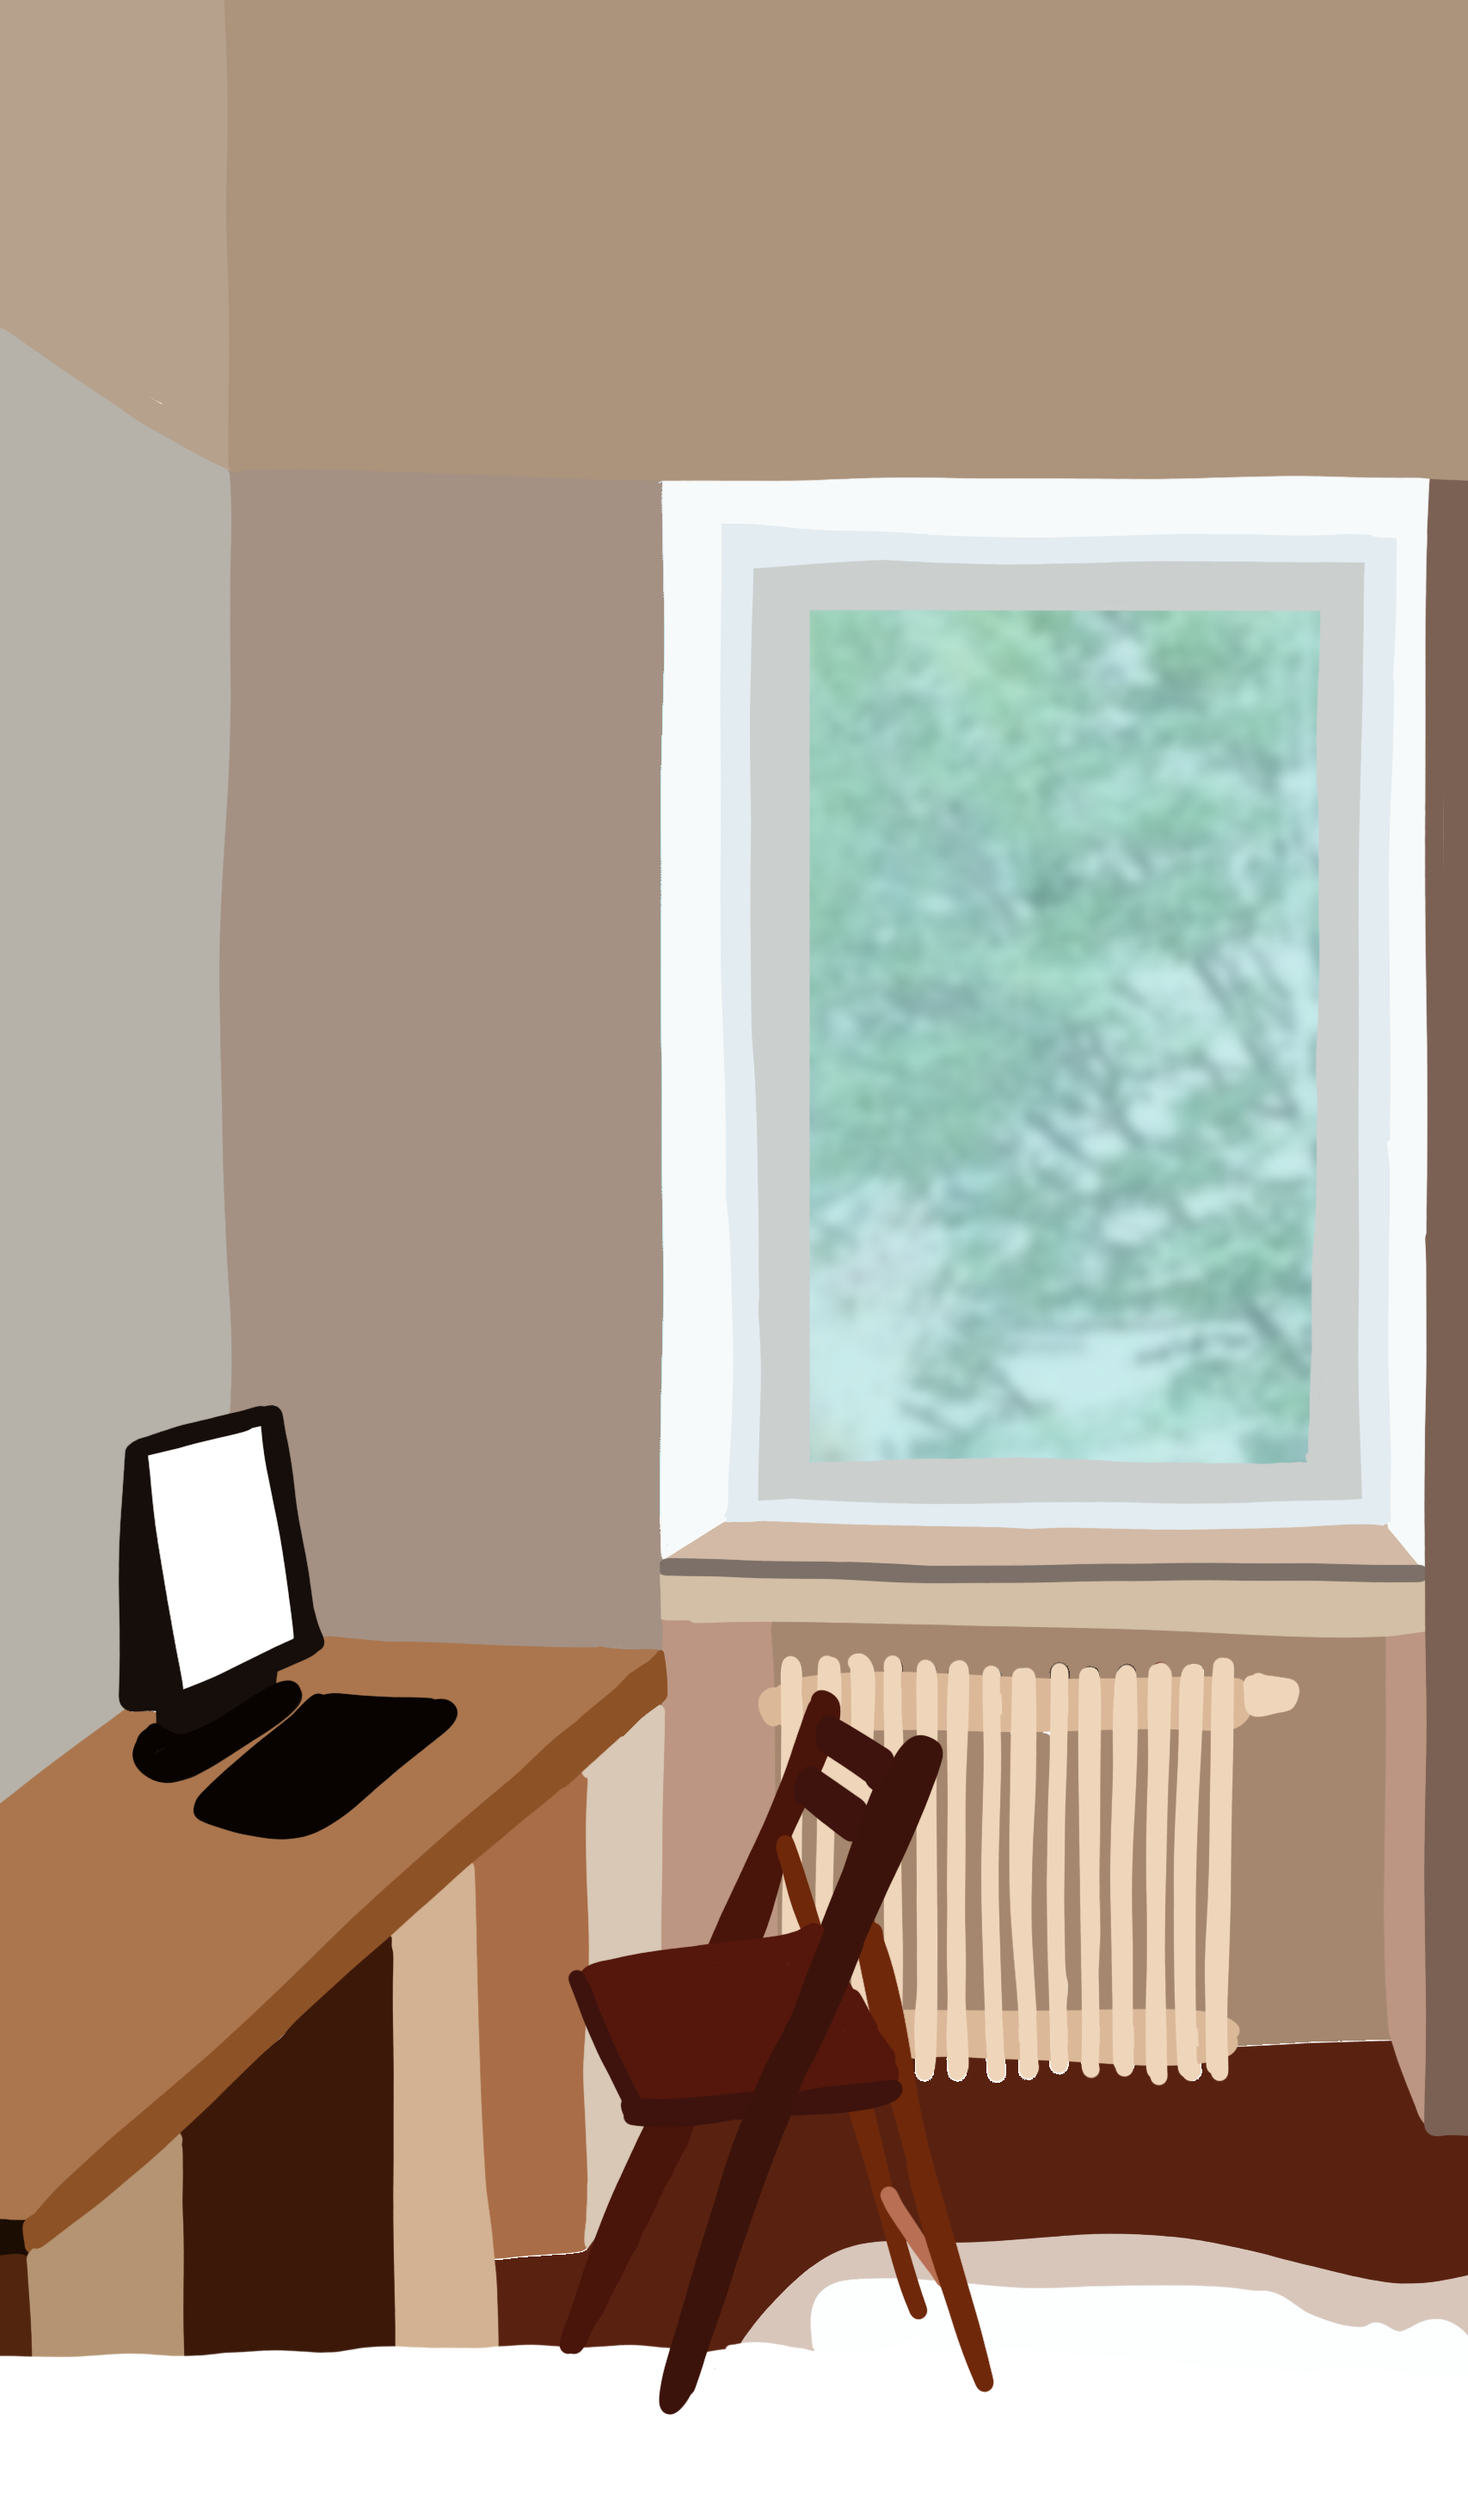
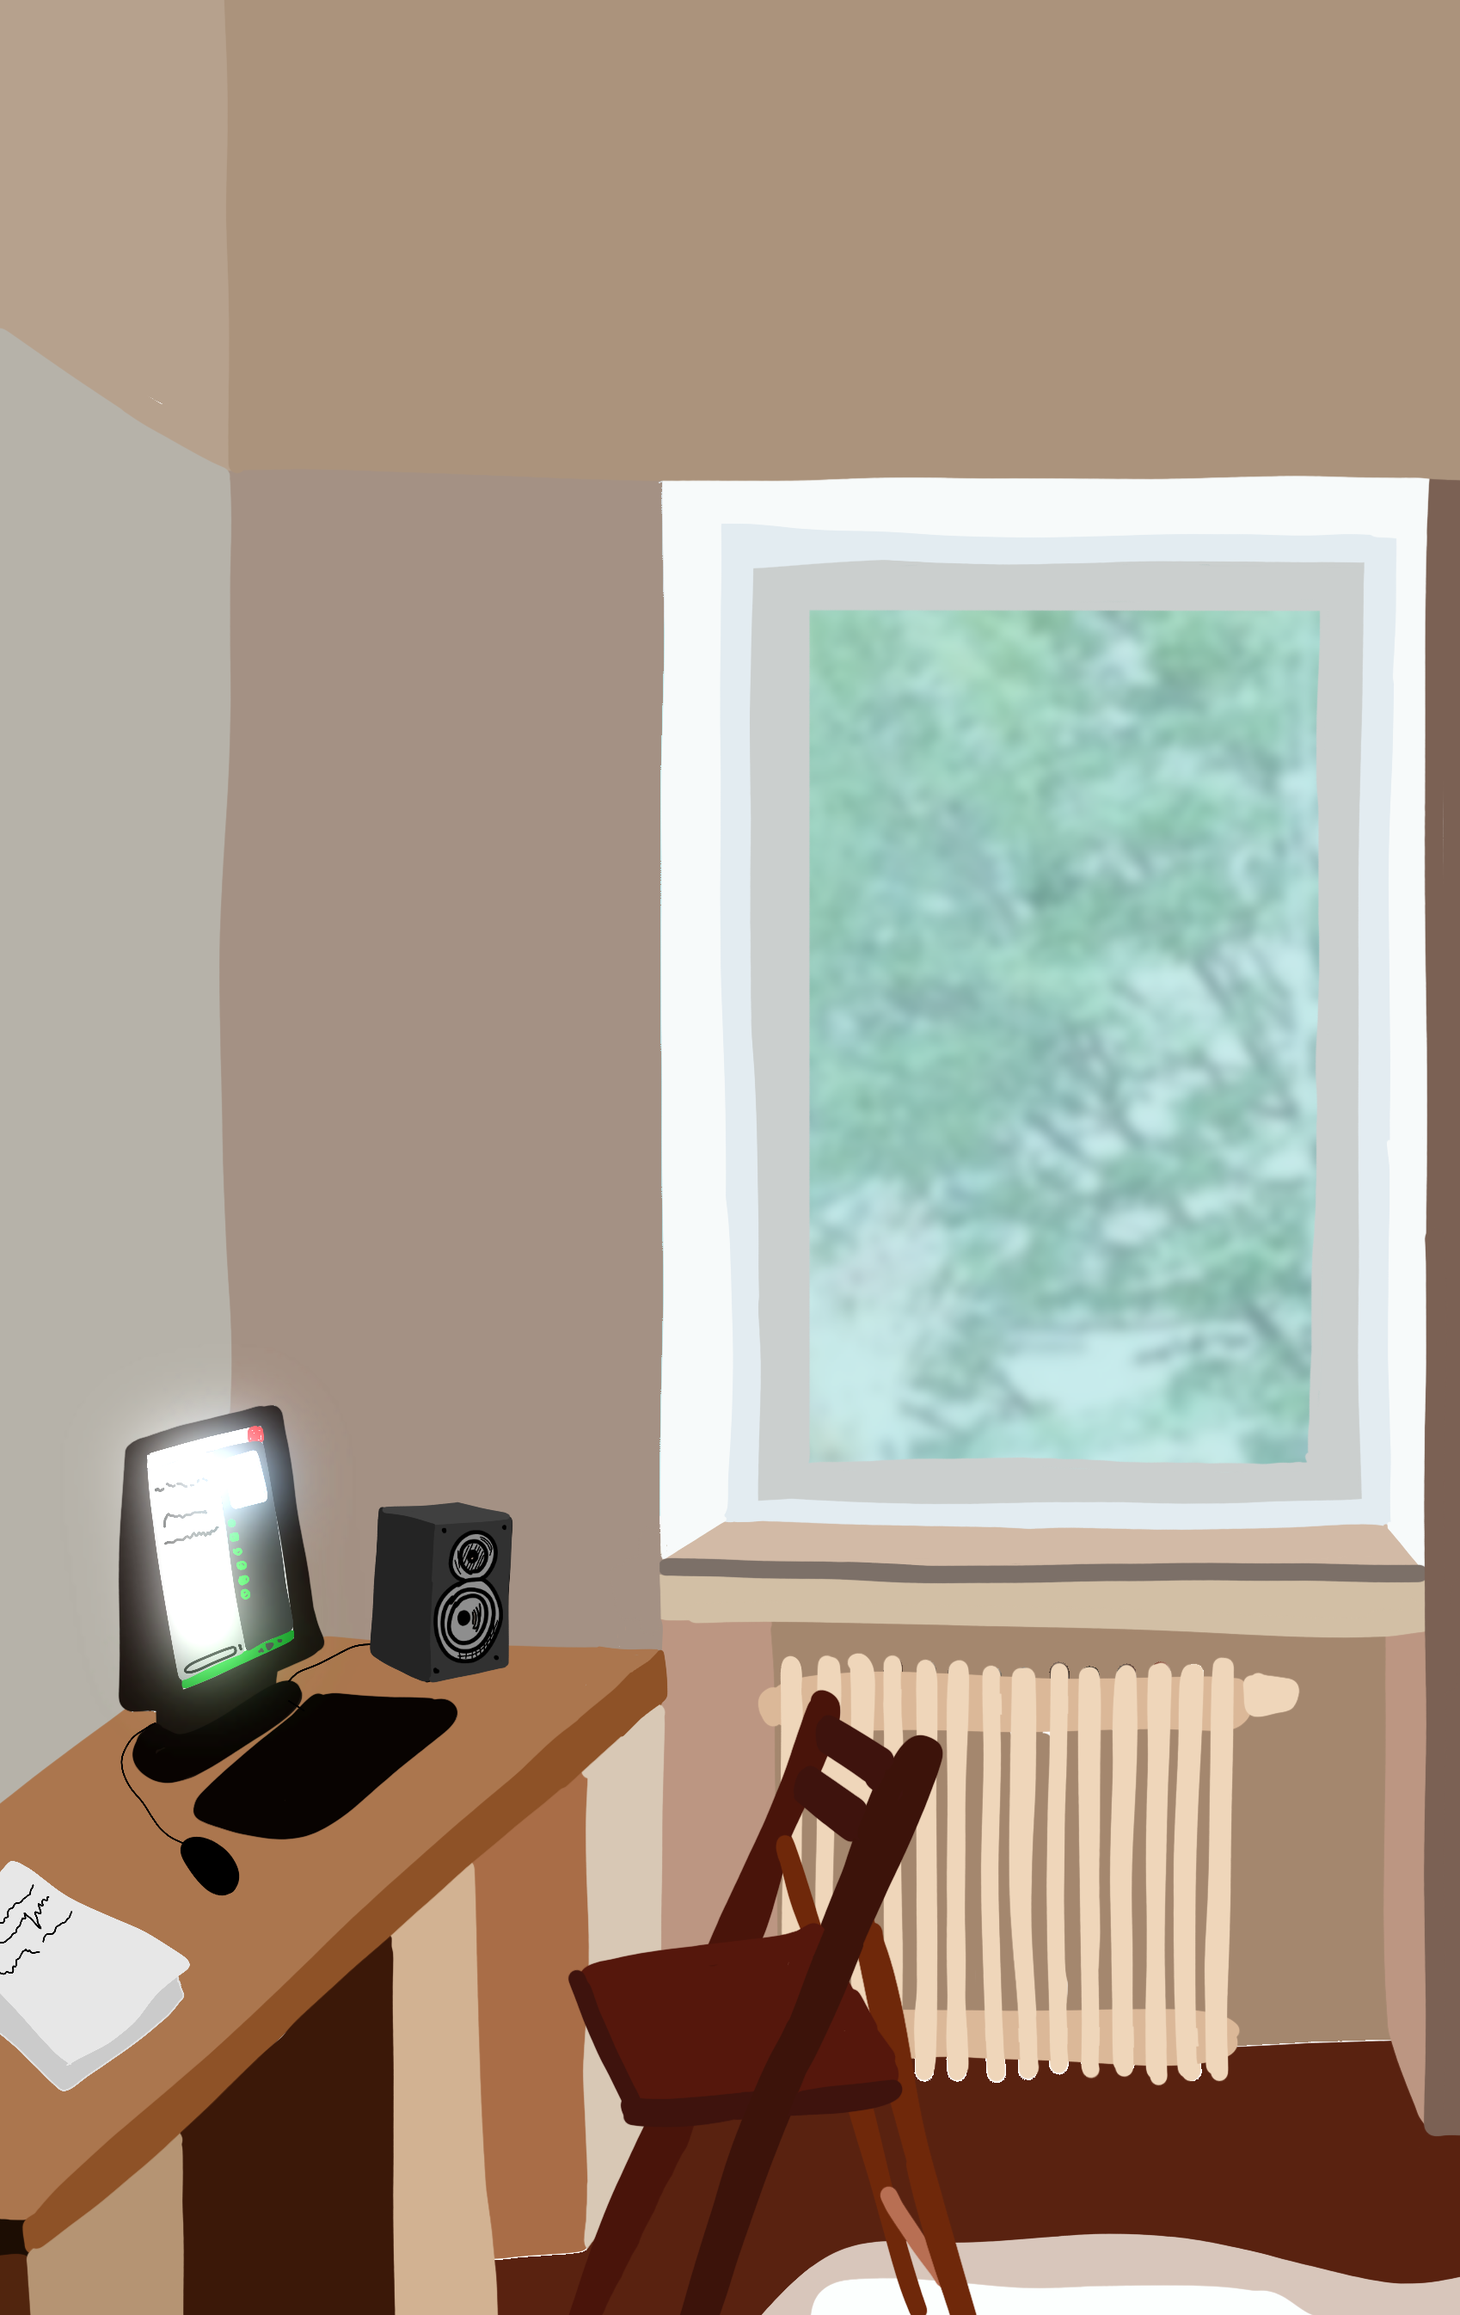
feat: missing pages for man

diff --git a/app/pages/subside/workstation.vue b/app/pages/subside/workstation.vue
@@ -4,6 +4,7 @@
         background-image="/images/bg/workstation-background.png"
         :markers="doveMarker"
         fill-viewport
+        :animate-image="false"
         background-color="#B5B4AF"
       />
   </PageWrapper>
@@ -12,7 +13,7 @@
 <script setup>
 const doveMarker = [
   {
-    id: 'car',
+    id: 'dove-crash-window',
     link: '/subside/dove-crash',
     image: '/images/sides/dove-window-crash-front.webp',
     x: 72,
@@ -20,6 +21,16 @@ const doveMarker = [
     size: 120,
     label: false,
     zIndex: 1
+  },
+  {
+    id: 'man-working',
+    link: '/subside/man-sleeping',
+    image: '/images/sides/man-working.webp',
+    x: 29,
+    y: 27,
+    size: 520,
+    label: false,
+    zIndex: 0
   }
 ]
 </script>

diff --git a/app/pages/subside/trash-throw.vue b/app/pages/subside/trash-throw.vue
@@ -1,7 +1,7 @@
 <template>
   <PageWrapper>
       <InteractiveImage 
-        background-image="/images/bg/breakfast-background.jpg"
+        background-image="/images/bg/trash-throw-background.png"
         :markers="doveMarker"
         fill-viewport
         background-color="#B5B4AF"
@@ -12,12 +12,12 @@
 <script setup>
 const doveMarker = [
   {
-    id: 'man-breakfast',
-    link: '/subside/trash-throw',
-    image: '/images/sides/man-at-breakfast.webp',
-    x: 71,
-    y: 65.3,
-    size: 170,
+    id: 'trash-throw',
+    link: '/subside/car',
+    image: '/images/sides/trash-throw.webp',
+    x: 42,
+    y: 40,
+    size: 500,
     label: false
   }
 ]

diff --git a/app/pages/subside/man-sleeping.vue b/app/pages/subside/man-sleeping.vue
@@ -1,0 +1,26 @@
+<template>
+  <PageWrapper>
+      <InteractiveImage 
+        background-image="/images/bg/man-sleeping-background.png"
+        :markers="doveMarker"
+        fill-viewport
+        :animate-image="false"
+        background-color="#B5B4AF"
+      />
+  </PageWrapper>
+</template>
+
+<script setup>
+const doveMarker = [
+  {
+    id: 'man-sleeping',
+    link: '/main-scene',
+    image: '/images/sides/man-sleeping.webp',
+    x: 54,
+    y: 37,
+    size: 180,
+    label: false,
+    zIndex: 1
+  }
+]
+</script>

diff --git a/app/pages/subside/splash.vue b/app/pages/subside/splash.vue
@@ -19,6 +19,15 @@ const doveMarker = [
     y: 51,
     size: 120,
     label: false
+  },
+  {
+    id: 'scented-tree',
+    link: '/subside/car',
+    image: '/images/sides/scented-tree.webp',
+    x: 37,
+    y: 78,
+    size: 20,
+    label: false
   }
 ]
 </script>
